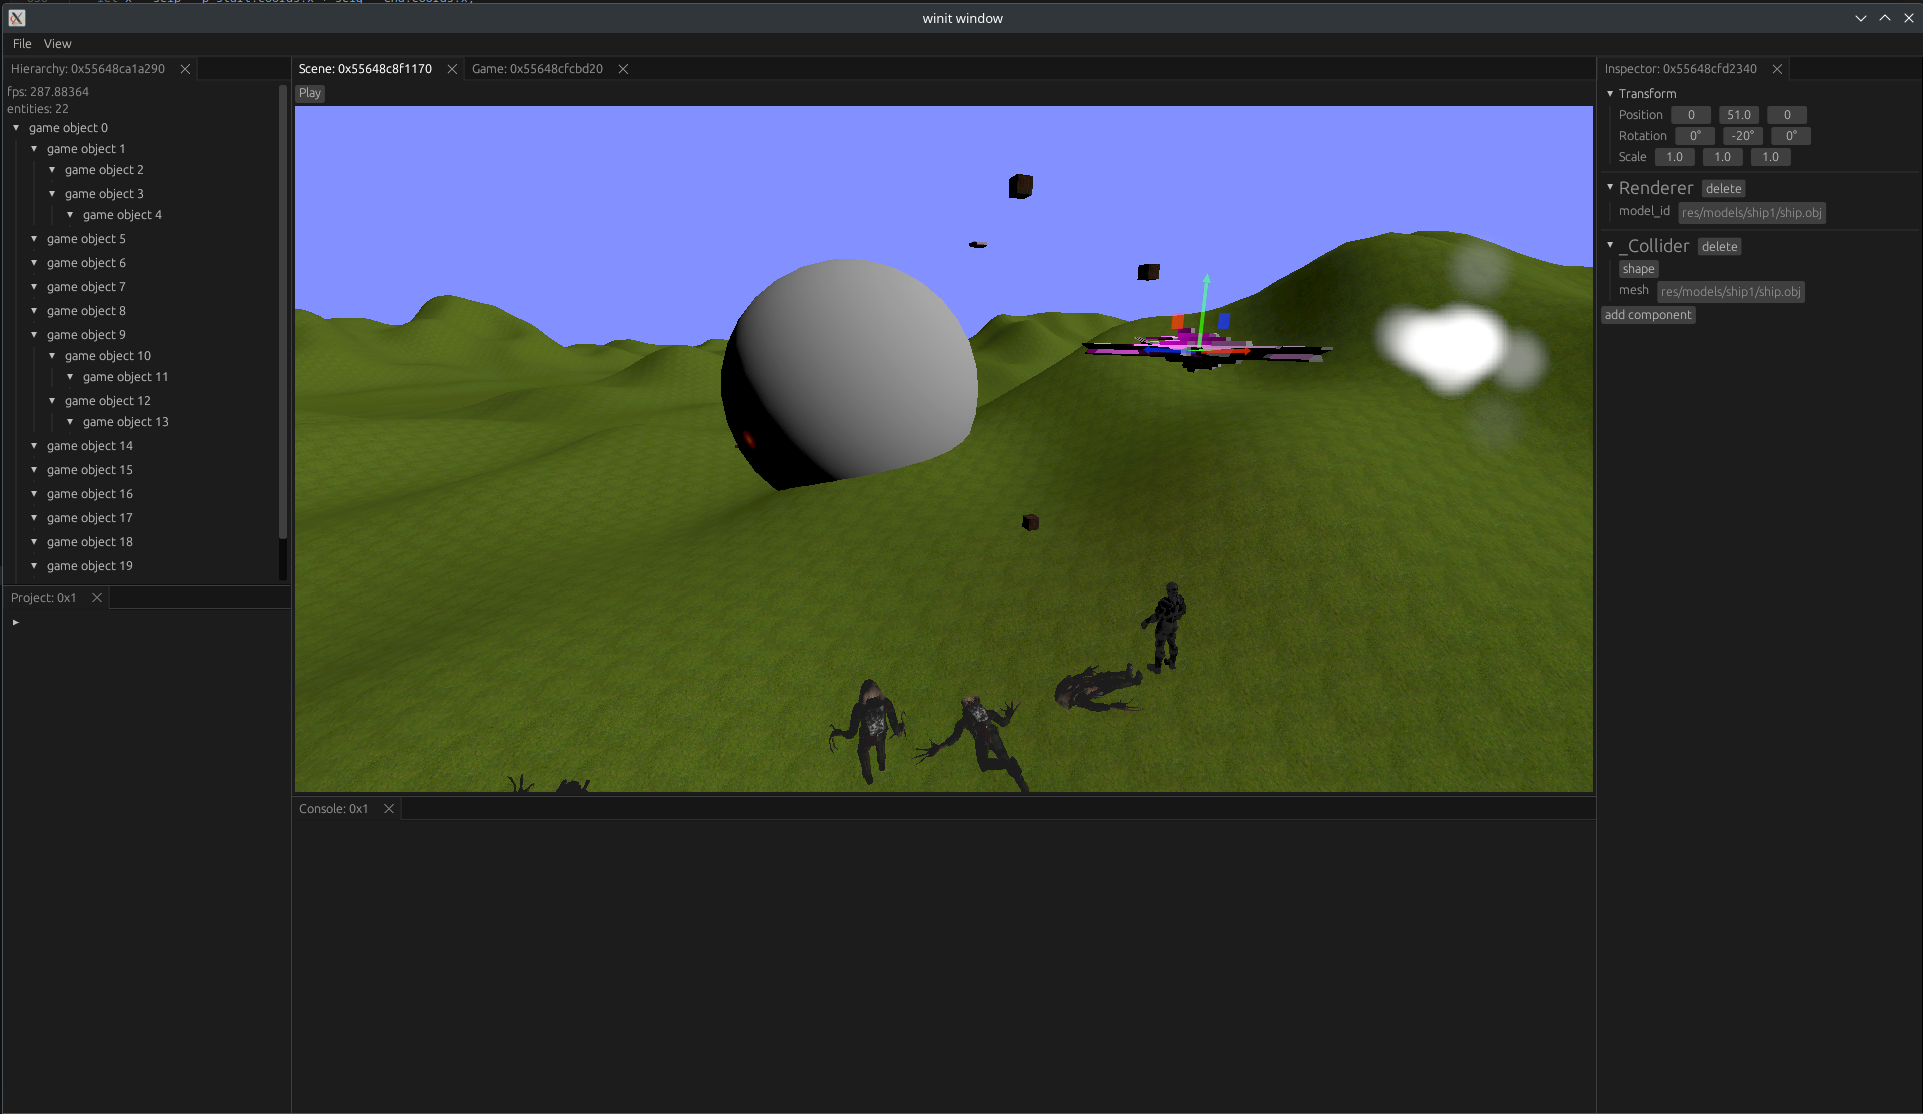
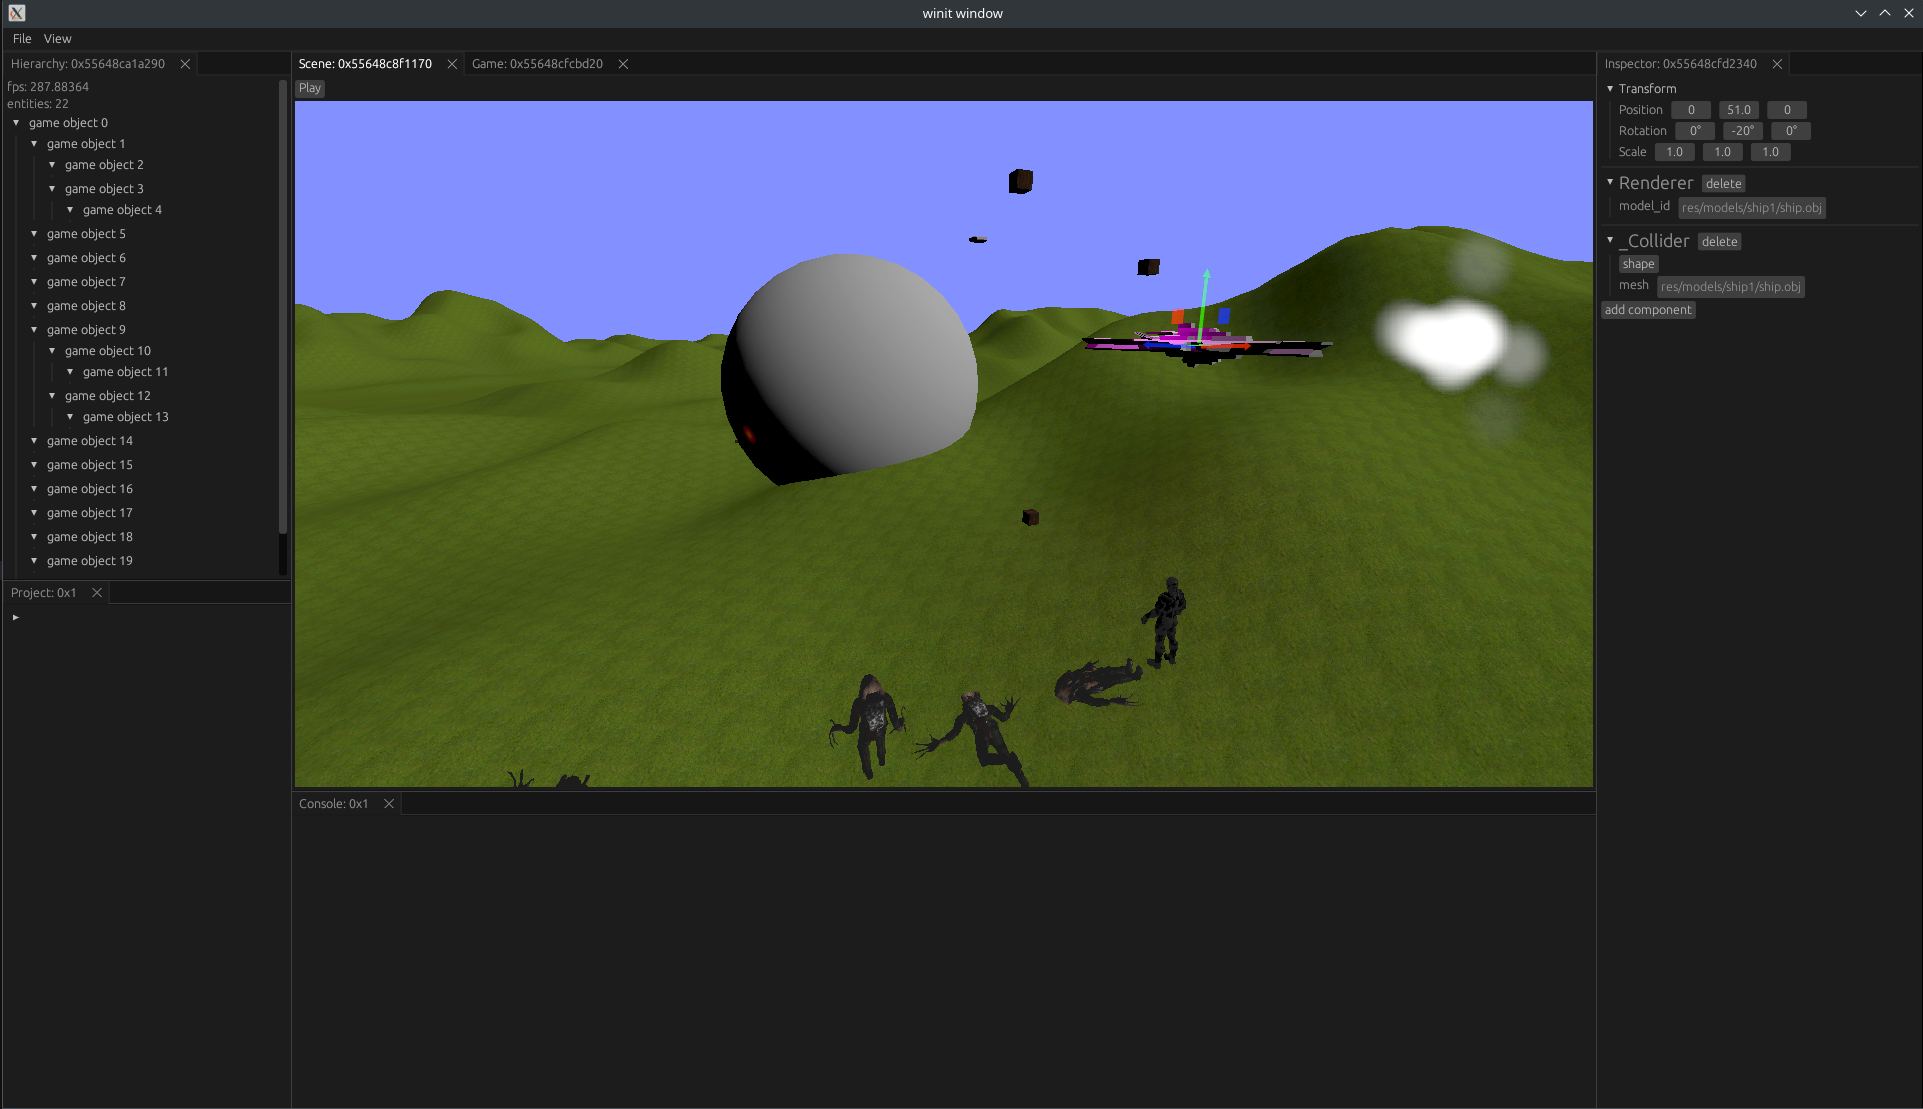
fix readme, crop editor.png

diff --git a/README.md b/README.md
@@ -5,7 +5,7 @@ An engine written for high performance game applications.
 - unity like ecs/behaviour scripting paradigm with **MUCH** better performance by default and without using an interface like Unity's Dots/burst compiler
 - extremely scalable performance for multithreaded cpus
 - level editor with the ability to expose component fields (to be considerably improved in the future)
-- 
+
 ![Editor](images/editor.png)
 
 ## Requirements
